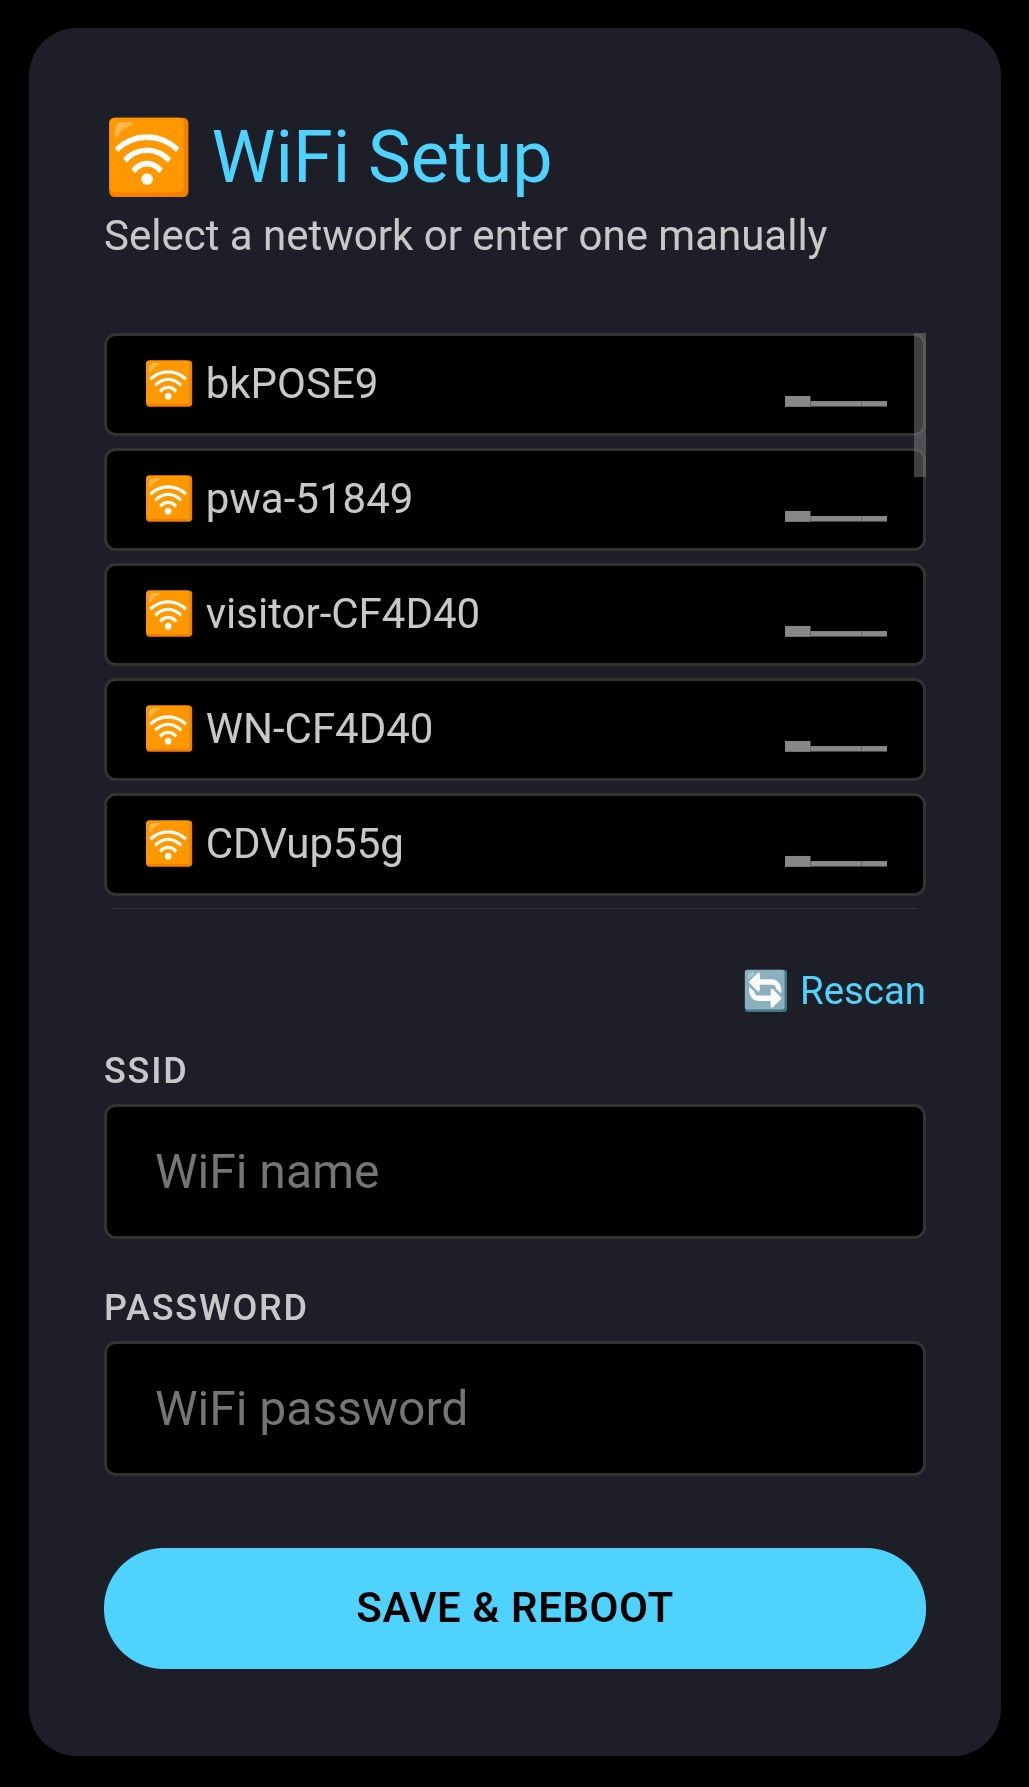
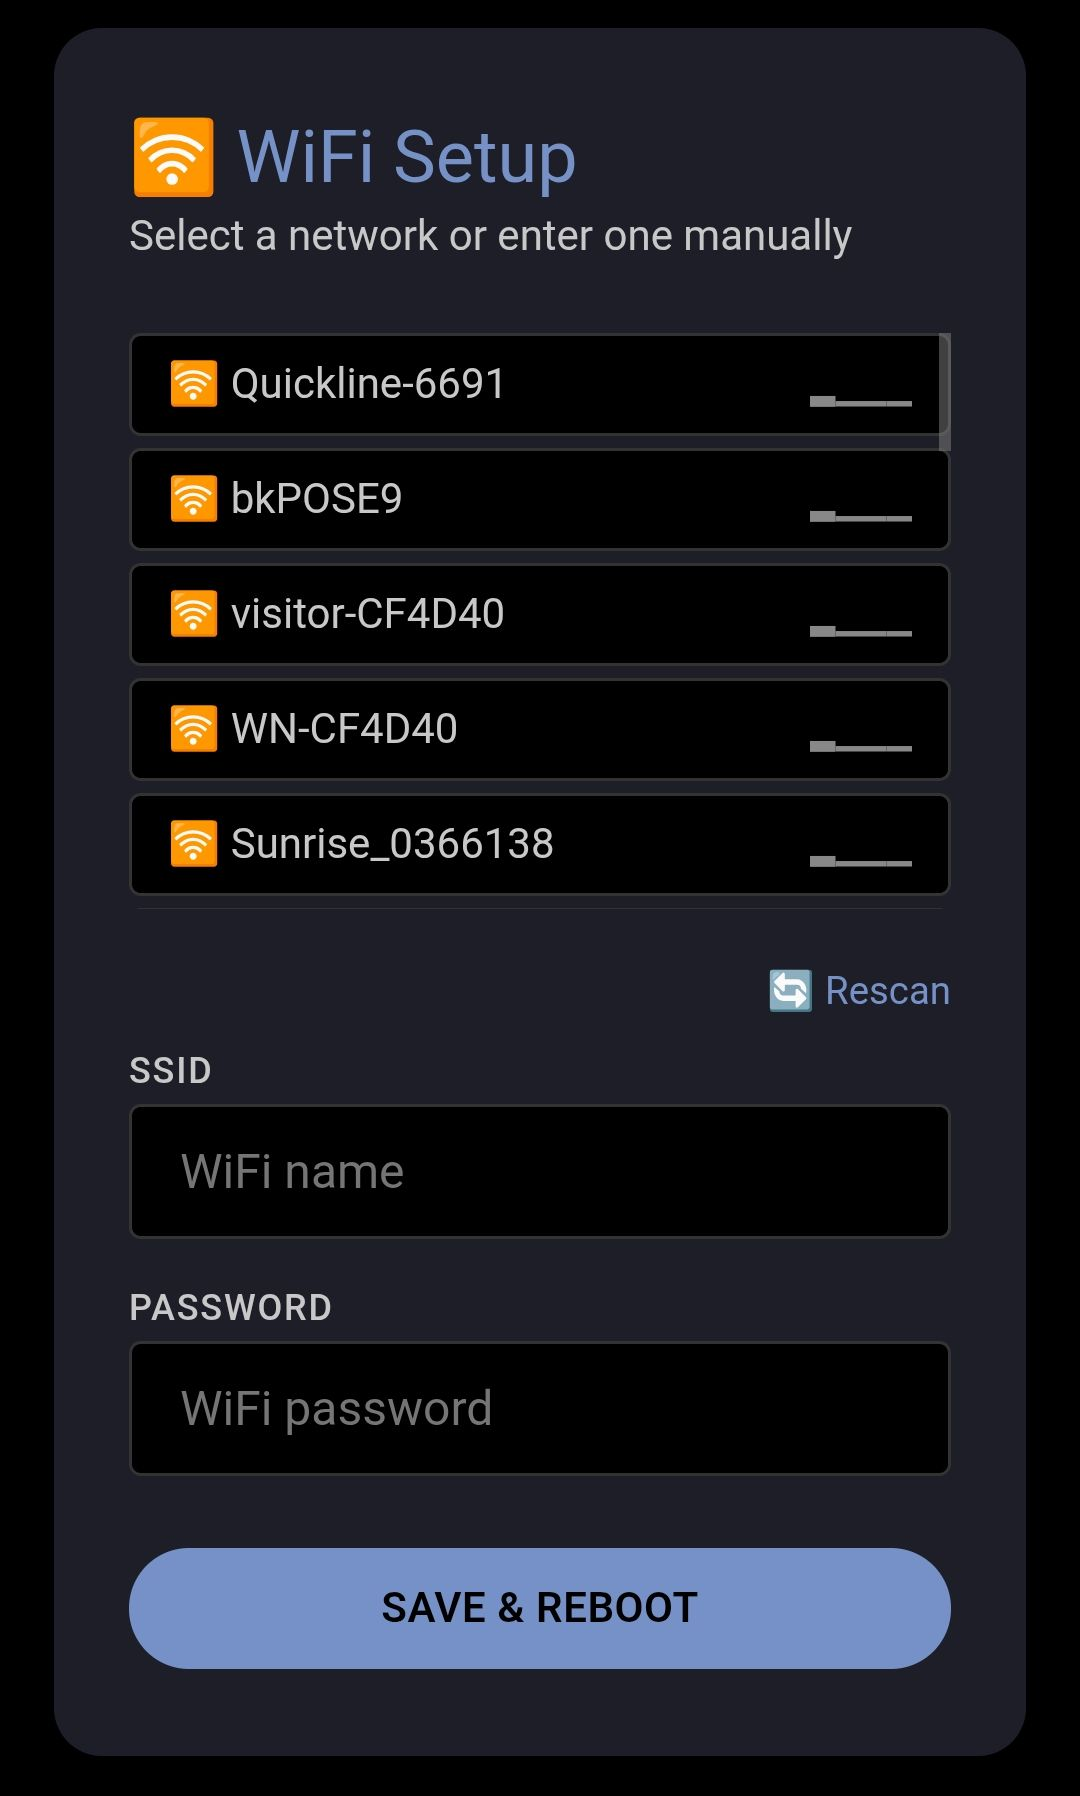
Callback when AP becomes active.

diff --git a/wifi_manager.html b/wifi_manager.html
@@ -37,7 +37,7 @@
             font-size: 1.5rem;
             font-weight: 400;
             margin-bottom: .25rem;
-            color: #50d2ff
+            color: #7691c7
         }
 
         p.sub {
@@ -64,7 +64,7 @@
         }
 
         .net-item:hover {
-            border-color: #50d2ff;
+            border-color: #7691c7;
             color: #fff
         }
 
@@ -99,14 +99,14 @@
         input[type=text]:focus,
         input[type=password]:focus {
             outline: none;
-            border-color: #50d2ff
+            border-color: #7691c7
         }
 
         button {
             width: 100%;
             padding: .75rem 1rem;
             margin-top: .5rem;
-            background: #50d2ff;
+            background: #7691c7;
             color: #000;
             border: none;
             border-radius: 20px;
@@ -118,11 +118,11 @@
         }
 
         button:hover {
-            background: #7adeff
+            background: #5179c9
         }
 
         button:active {
-            background: #3bbce8
+            background: #457ded
         }
     </style>
     <script>
@@ -137,7 +137,7 @@
         <div class="net-list">
             {{NETWORKS}}</div>
         <a href="/?rescan=1"
-            style="display:block;text-align:right;color:#50d2ff;font-size:.8rem;text-decoration:none;margin-bottom:.75rem">&#x1f504;
+            style="display:block;text-align:right;color:#7691c7;font-size:.8rem;text-decoration:none;margin-bottom:.75rem">&#x1f504;
             Rescan</a>
         <form method="POST" action="/">
             <label for="ssid">SSID</label>

diff --git a/wifi_manager.py b/wifi_manager.py
@@ -14,15 +14,6 @@
 #
 # You should have received a copy of the GNU General Public License
 # along with this program.  If not, see <https://www.gnu.org/licenses/>.
-#
-# Flow on boot:
-# 1. Try to connect using saved (not encrypted) credentials from _CONFIG_FILE
-# 2. If connected → return WLAN interface to caller
-# 3. If no saved credentials or connection fails:
-#    - Start an Access Point _AP_SSID
-#    - Serve a web portal at _AP_IP where user enters SSID + password
-#    - Save credentials to "wifi_config.json"
-#    - Reboot the microcontroller
 
 import gc
 import json
@@ -53,7 +44,7 @@ def _load_portal_html() -> str:
 
 
 def load_credentials() -> dict | None:
-    """Load saved WiFi credentials from flash file. Returns dict or None."""
+    """Load WiFi credentials from flash file. Returns dict or None."""
     try:
         with open(_CONFIG_FILE, "r") as f:
             data = json.load(f)
@@ -67,7 +58,7 @@ def load_credentials() -> dict | None:
 
 
 def save_credentials(ssid: str, password: str) -> None:
-    """Persist WiFi credentials to flash file."""
+    """Save WiFi credentials to flash file."""
     try:
         with open(_CONFIG_FILE, "w") as f:
             json.dump({"ssid": ssid, "password": password}, f)
@@ -175,8 +166,14 @@ def _handle(client, networks: list) -> bool:
         client.close()
 
 
-def _start_ap(ap_ssid: str = _AP_SSID) -> network.WLAN:
-    """Start the microcontroller in Access Point mode on channel 6."""
+def _start_ap(ap_ssid: str = _AP_SSID, on_ap=None) -> network.WLAN:
+    """Start the microcontroller in Access Point mode on channel 6.
+
+    Args:
+        ap_ssid: SSID for the configuration AP.
+        on_ap: Optional callback invoked once the AP is active. It is
+            called with ``(ssid, ip)``.
+    """
     ap = network.WLAN(network.AP_IF)
     ap.active(True)
     ap.config(essid=ap_ssid, authmode=network.AUTH_OPEN, channel=6)
@@ -185,6 +182,8 @@ def _start_ap(ap_ssid: str = _AP_SSID) -> network.WLAN:
         if ap.active():
             break
         time.sleep(0.25)
+    if on_ap is not None:
+        on_ap(ap_ssid, _AP_IP)
     return ap
 
 
@@ -213,9 +212,9 @@ def _scan_networks() -> list:
     return sorted(nets.items(), key=lambda x: x[1], reverse=True)
 
 
-def _config_portal(networks: list, ap_ssid: str = _AP_SSID) -> None:
+def _config_portal(networks: list, ap_ssid: str = _AP_SSID, on_ap=None) -> None:
     """Run the AP + web portal until the user submits valid credentials."""
-    ap = _start_ap(ap_ssid)
+    ap = _start_ap(ap_ssid, on_ap)
 
     addr = socket.getaddrinfo("0.0.0.0", 80)[0][-1]
     s = socket.socket(socket.AF_INET, socket.SOCK_STREAM)
@@ -240,11 +239,13 @@ def _config_portal(networks: list, ap_ssid: str = _AP_SSID) -> None:
     machine.reset()
 
 
-def connect(ap_ssid: str = _AP_SSID) -> network.WLAN:
+def connect(ap_ssid: str = _AP_SSID, on_ap=None) -> network.WLAN:
     """Main entry point: try saved WiFi, fall back to AP config portal.
 
     Args:
         ap_ssid: SSID for the configuration AP (default: MicroPython-Wifi).
+        on_ap: Optional callback invoked when the configuration AP becomes
+            active. Called with ``(ssid, ip)``.
 
     Returns a connected ``network.WLAN`` interface (STA_IF).
     """
@@ -275,6 +276,6 @@ def connect(ap_ssid: str = _AP_SSID) -> network.WLAN:
     wlan.active(False)
 
     print("📡 No (valid) saved network")
-    _config_portal(networks, ap_ssid)
+    _config_portal(networks, ap_ssid, on_ap)
     # Never reaches here — machine.reset() is called inside _config_portal
     return wlan

diff --git a/main.py b/main.py
@@ -14,21 +14,18 @@
 #
 # You should have received a copy of the GNU General Public License
 # along with this program.  If not, see <https://www.gnu.org/licenses/>.
-#
-# Flow on boot:
-# 1. Try to connect using saved (not encrypted) credentials from _CONFIG_FILE
-# 2. If connected → return WLAN interface to caller
-# 3. If no saved credentials or connection fails:
-#    - Start an Access Point _AP_SSID
-#    - Serve a web portal at _AP_IP where user enters SSID + password
-#    - Save credentials to "wifi_config.json"
-#    - Reboot the microcontroller
 
 import wifi_manager
 
 
+def _callback_onApActivated(ssid: str, ip: str) -> None:
+    """WiFi manager callback: The configuration AP portal is active."""
+    print(f"📡 AP active: '{ssid}' → http://{ip}/")
+
+
 def main():
-    wifi = wifi_manager.connect("Wifi-AP")
+    """Call WiFi manager"""
+    wifi = wifi_manager.connect("WiFi-AP", on_ap=_callback_onApActivated)
     print(wifi.status)
 
 

diff --git a/README.md b/README.md
@@ -1,14 +1,27 @@
 # WiFi Manager for MicroPython
 <a href="https://www.buymeacoffee.com/ch570512" target="_blank"><img src="https://cdn.buymeacoffee.com/buttons/v2/default-yellow.png" alt="Buy Me A Coffee" style="height: 40px !important;width: 150px !important;"></a>
 
+This is an easy to use WiFi-Manager for MicroPython. Even the '_callback' is optional.
+
 Flow on boot:
 1. Try to connect using saved (not encrypted) credentials from _CONFIG_FILE
 2. If connected → return WLAN interface to caller
 3. If no saved credentials or connection fails:
    - Start an Access Point _AP_SSID
    - Serve a web portal at _AP_IP where user enters SSID + password
-   - Save credentials to "wifi_config.json"
+   - Save credentials to _CONFIG_FILE
    - Reboot the microcontroller
+
+```python
+import wifi_manager
+
+def _callback_onApActivated(ssid: str, ip: str) -> None:
+    print(f"📡 AP active: '{ssid}' → http://{ip}/")
+
+def main():
+    wifi = wifi_manager.connect("WiFi-AP", on_ap=_callback_onApActivated)
+    print(wifi.status)
+```
 
 <img src="images/wifi_manager.jpg" width="320
 " alt="Wifi-Manager">
